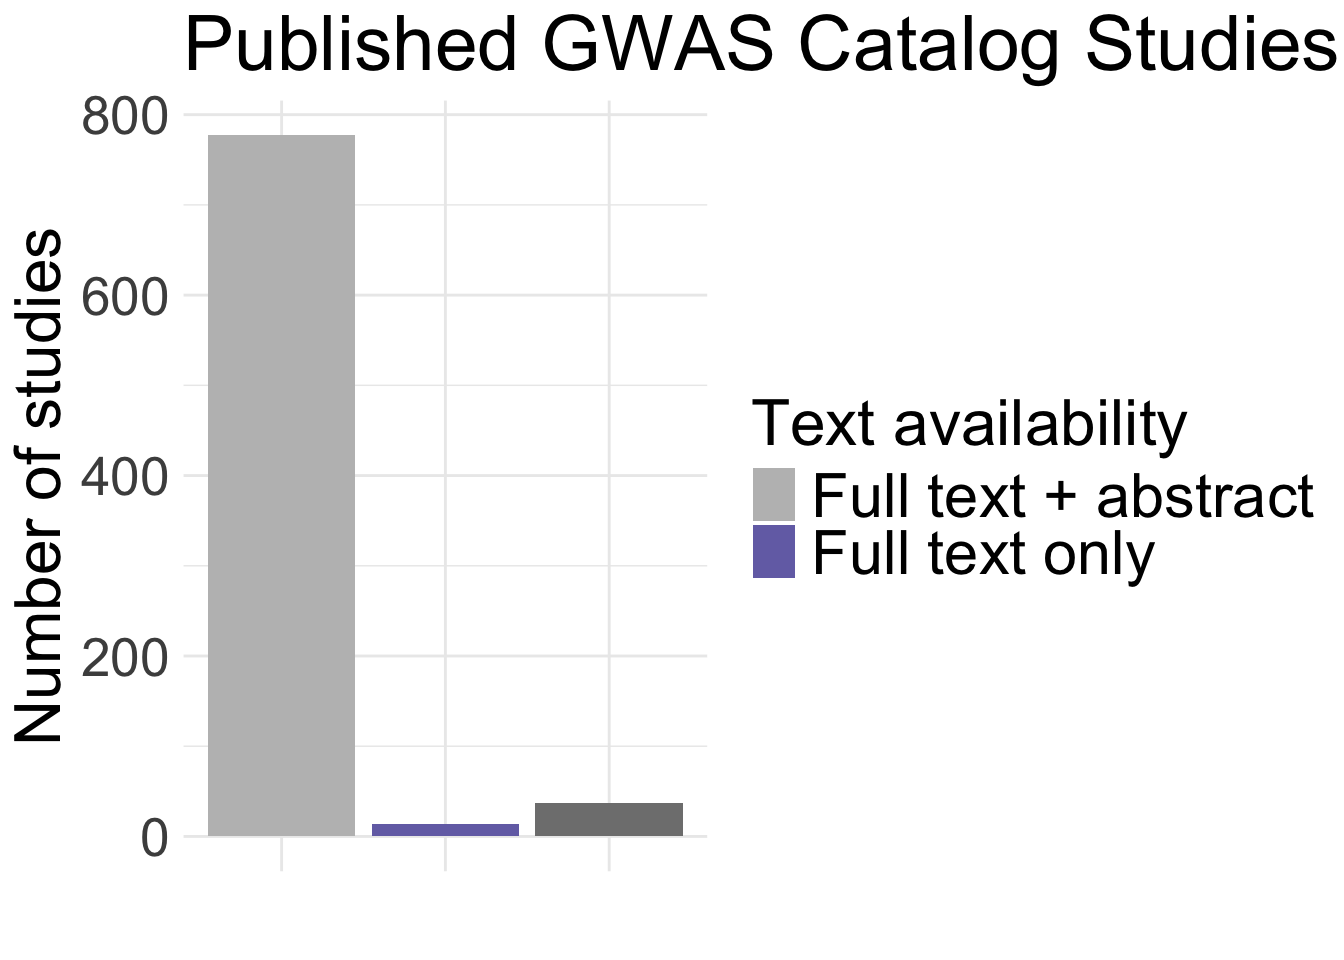
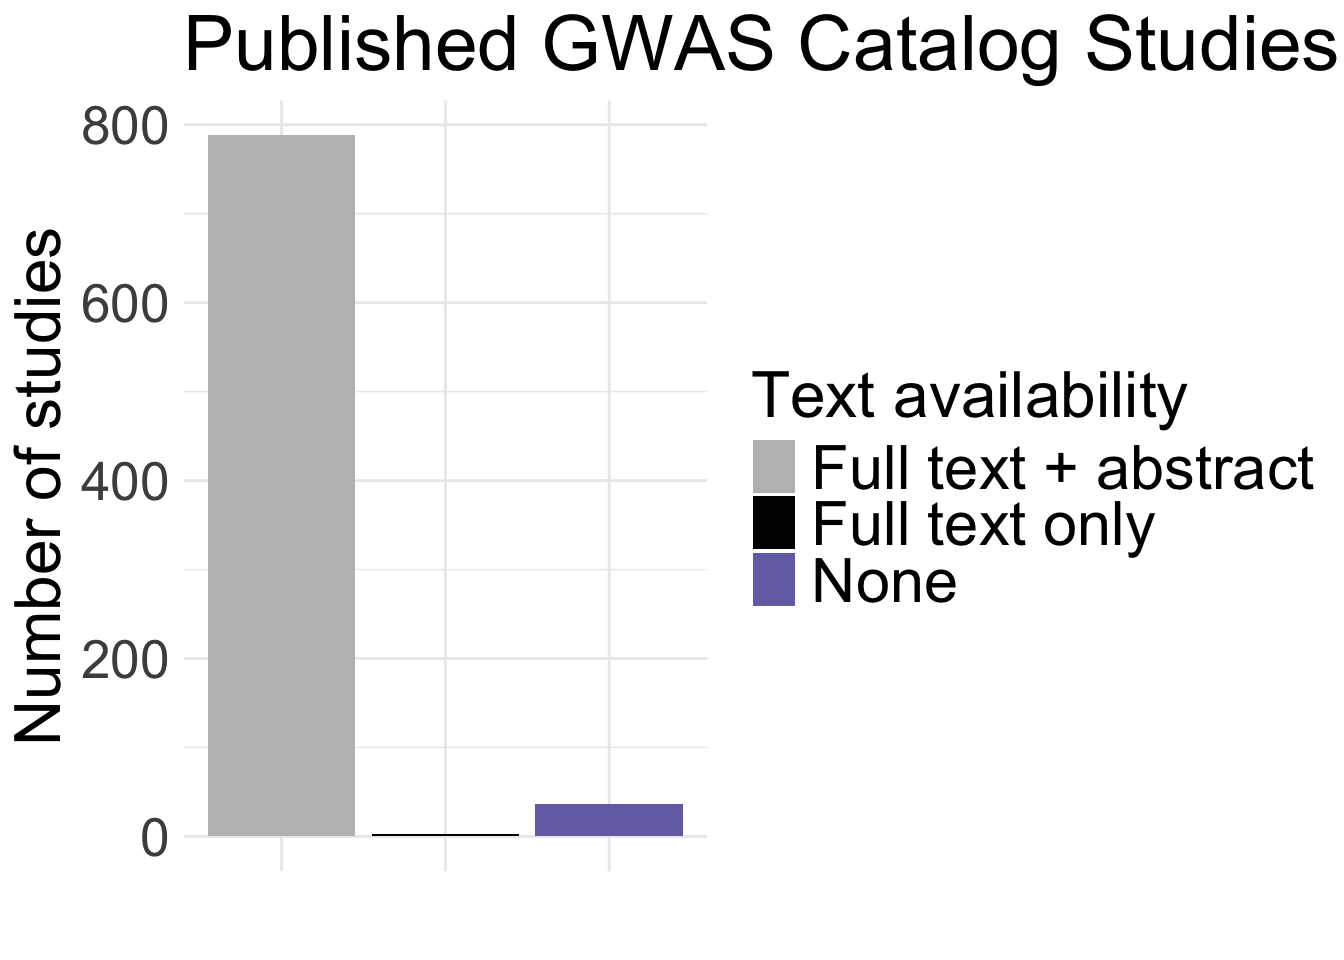
Build site.

diff --git a/docs/specific_aims_stats.html b/docs/specific_aims_stats.html
@@ -508,15 +508,15 @@ project makes it easier to run your code on other machines.</p>
 <div class="panel panel-default">
 <div class="panel-heading">
 <p class="panel-title">
-<a data-toggle="collapse" data-parent="#workflowr-checks" href="#strongRepositoryversionstrongahrefhttpsgithubcomIJbeasleygenomicsancestdiseasedispartree55f58c101f323f40787325e034cec65338b7bf1atargetblank55f58c1a">
+<a data-toggle="collapse" data-parent="#workflowr-checks" href="#strongRepositoryversionstrongahrefhttpsgithubcomIJbeasleygenomicsancestdiseasedispartree558cef087a7ace482e396385396014d8f3eefc61targetblank558cef0a">
 <span class="glyphicon glyphicon-ok text-success"
 aria-hidden="true"></span> <strong>Repository version:</strong>
-<a href="https://github.com/IJbeasley/genomics_ancest_disease_dispar/tree/55f58c101f323f40787325e034cec65338b7bf1a" target="_blank">55f58c1</a>
+<a href="https://github.com/IJbeasley/genomics_ancest_disease_dispar/tree/558cef087a7ace482e396385396014d8f3eefc61" target="_blank">558cef0</a>
 </a>
 </p>
 </div>
 <div
[2 lines of base64/hex data omitted]
 class="panel-collapse collapse">
 <div class="panel-body">
 <p>
@@ -526,7 +526,7 @@ reproducibility.
 </p>
 <p>
 The results in this page were generated with repository version
-<a href="https://github.com/IJbeasley/genomics_ancest_disease_dispar/tree/55f58c101f323f40787325e034cec65338b7bf1a" target="_blank">55f58c1</a>.
+<a href="https://github.com/IJbeasley/genomics_ancest_disease_dispar/tree/558cef087a7ace482e396385396014d8f3eefc61" target="_blank">558cef0</a>.
 See the <em>Past versions</em> tab to see a history of the changes made
 to the R Markdown and HTML files.
 </p>
@@ -661,6 +661,40 @@ Message
 </tr>
 </thead>
 <tbody>
+<tr>
+<td>
+Rmd
+</td>
+<td>
+<a href="https://github.com/IJbeasley/genomics_ancest_disease_dispar/blob/558cef087a7ace482e396385396014d8f3eefc61/analysis/specific_aims_stats.Rmd" target="_blank">558cef0</a>
+</td>
+<td>
+IJbeasley
+</td>
+<td>
+2026-03-31
+</td>
+<td>
+Update specific aims stats for more abstracts
+</td>
+</tr>
+<tr>
+<td>
+html
+</td>
+<td>
+<a href="https://rawcdn.githack.com/IJbeasley/genomics_ancest_disease_dispar/06e6759e190f4cdfd154c2308ad9b985c5b35fd2/docs/specific_aims_stats.html" target="_blank">06e6759</a>
+</td>
+<td>
+IJbeasley
+</td>
+<td>
+2026-03-31
+</td>
+<td>
+Build site.
+</td>
+</tr>
 <tr>
 <td>
 Rmd
@@ -1108,6 +1142,17 @@ Date
 <tbody>
 <tr>
 <td>
+<a href="https://github.com/IJbeasley/genomics_ancest_disease_dispar/blob/06e6759e190f4cdfd154c2308ad9b985c5b35fd2/docs/figure/specific_aims_stats.Rmd/n_papers_per_condition-1.png" target="_blank">06e6759</a>
+</td>
+<td>
+IJbeasley
+</td>
+<td>
+2026-03-31
+</td>
+</tr>
+<tr>
+<td>
 <a href="https://github.com/IJbeasley/genomics_ancest_disease_dispar/blob/813cc4da12ff956460bf324baf89014cbaa61089/docs/figure/specific_aims_stats.Rmd/n_papers_per_condition-1.png" target="_blank">813cc4d</a>
 </td>
 <td>
@@ -1236,6 +1281,17 @@ Date
 </tr>
 </thead>
 <tbody>
+<tr>
+<td>
+<a href="https://github.com/IJbeasley/genomics_ancest_disease_dispar/blob/06e6759e190f4cdfd154c2308ad9b985c5b35fd2/docs/figure/specific_aims_stats.Rmd/n_papers_per_non-communicable_condition-1.png" target="_blank">06e6759</a>
+</td>
+<td>
+IJbeasley
+</td>
+<td>
+2026-03-31
+</td>
+</tr>
 <tr>
 <td>
 <a href="https://github.com/IJbeasley/genomics_ancest_disease_dispar/blob/813cc4da12ff956460bf324baf89014cbaa61089/docs/figure/specific_aims_stats.Rmd/n_papers_per_non-communicable_condition-1.png" target="_blank">813cc4d</a>
@@ -1372,15 +1428,15 @@ n_studies_with_abstracts &lt;-
 print(&quot;Number of published studies with abstracts downloaded:&quot;)</code></pre>
 <pre><code>[1] &quot;Number of published studies with abstracts downloaded:&quot;</code></pre>
 <pre class="r"><code>print(n_studies_with_abstracts)</code></pre>
-<pre><code>[1] 814</code></pre>
+<pre><code>[1] 825</code></pre>
 <pre class="r"><code>print(&quot;Proportion of published studies with abstracts downloaded:&quot;)</code></pre>
 <pre><code>[1] &quot;Proportion of published studies with abstracts downloaded:&quot;</code></pre>
 <pre class="r"><code>100 * n_studies_with_abstracts / n_published_non_comm_studies</code></pre>
-<pre><code>[1] 98.30918</code></pre>
+<pre><code>[1] 99.63768</code></pre>
 <pre class="r"><code>print(&quot;Number of published studies without abstracts downloaded:&quot;)</code></pre>
 <pre><code>[1] &quot;Number of published studies without abstracts downloaded:&quot;</code></pre>
 <pre class="r"><code>print(n_published_non_comm_studies - n_studies_with_abstracts)</code></pre>
-<pre><code>[1] 14</code></pre>
+<pre><code>[1] 3</code></pre>
 </div>
 <div
 id="that-have-downloaded-full-text-.xml-of-all-papers-studying-non-communicable-conditions"
@@ -1605,8 +1661,8 @@ ggplot(aes(x = text_availability,
     name = &quot;Text availability&quot;,
     values = c(
       &quot;Full text + abstract&quot; = &quot;grey&quot;,
-      &quot;Abstract only&quot; = &quot;black&quot;,
-      &quot;Full text only&quot; = &quot;#7570b3&quot;
+      &quot;Full text only&quot; = &quot;black&quot;,
+      &quot;None&quot; = &quot;#7570b3&quot;
     ),
     labels = c(
       all = &quot;None&quot;,
@@ -1647,6 +1703,17 @@ Date
 </tr>
 </thead>
 <tbody>
+<tr>
+<td>
+<a href="https://github.com/IJbeasley/genomics_ancest_disease_dispar/blob/06e6759e190f4cdfd154c2308ad9b985c5b35fd2/docs/figure/specific_aims_stats.Rmd/plot_abstracts_fulltext-1.png" target="_blank">06e6759</a>
+</td>
+<td>
+IJbeasley
+</td>
+<td>
+2026-03-31
+</td>
+</tr>
 <tr>
 <td>
 <a href="https://github.com/IJbeasley/genomics_ancest_disease_dispar/blob/813cc4da12ff956460bf324baf89014cbaa61089/docs/figure/specific_aims_stats.Rmd/plot_abstracts_fulltext-1.png" target="_blank">813cc4d</a>
@@ -1696,6 +1763,17 @@ Date
 </tr>
 </thead>
 <tbody>
+<tr>
+<td>
+<a href="https://github.com/IJbeasley/genomics_ancest_disease_dispar/blob/06e6759e190f4cdfd154c2308ad9b985c5b35fd2/docs/figure/specific_aims_stats.Rmd/papers_per_year-1.png" target="_blank">06e6759</a>
+</td>
+<td>
+IJbeasley
+</td>
+<td>
+2026-03-31
+</td>
+</tr>
 <tr>
 <td>
 <a href="https://github.com/IJbeasley/genomics_ancest_disease_dispar/blob/813cc4da12ff956460bf324baf89014cbaa61089/docs/figure/specific_aims_stats.Rmd/papers_per_year-1.png" target="_blank">813cc4d</a>
@@ -2078,6 +2156,17 @@ Date
 </tr>
 </thead>
 <tbody>
+<tr>
+<td>
+<a href="https://github.com/IJbeasley/genomics_ancest_disease_dispar/blob/06e6759e190f4cdfd154c2308ad9b985c5b35fd2/docs/figure/specific_aims_stats.Rmd/fulltext_by_condition-1.png" target="_blank">06e6759</a>
+</td>
+<td>
+IJbeasley
+</td>
+<td>
+2026-03-31
+</td>
+</tr>
 <tr>
 <td>
 <a href="https://github.com/IJbeasley/genomics_ancest_disease_dispar/blob/813cc4da12ff956460bf324baf89014cbaa61089/docs/figure/specific_aims_stats.Rmd/fulltext_by_condition-1.png" target="_blank">813cc4d</a>
